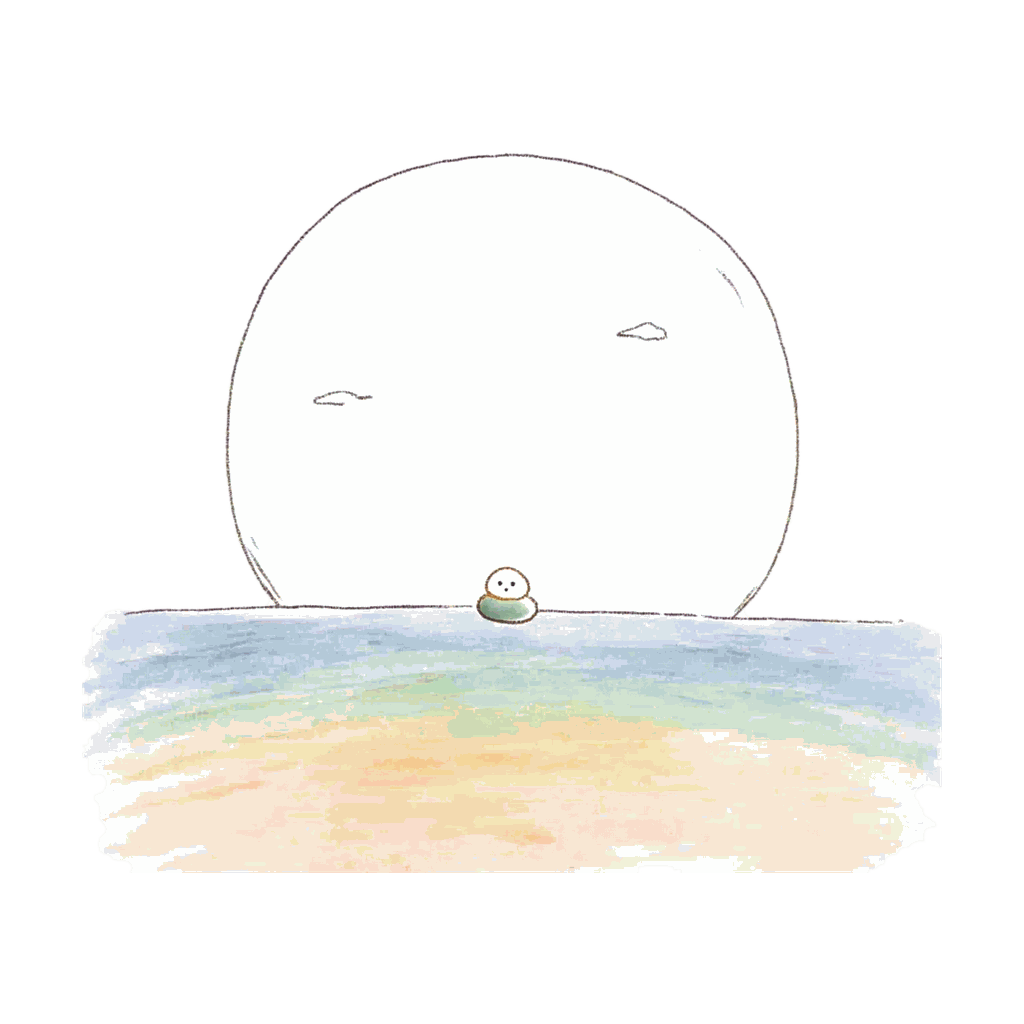
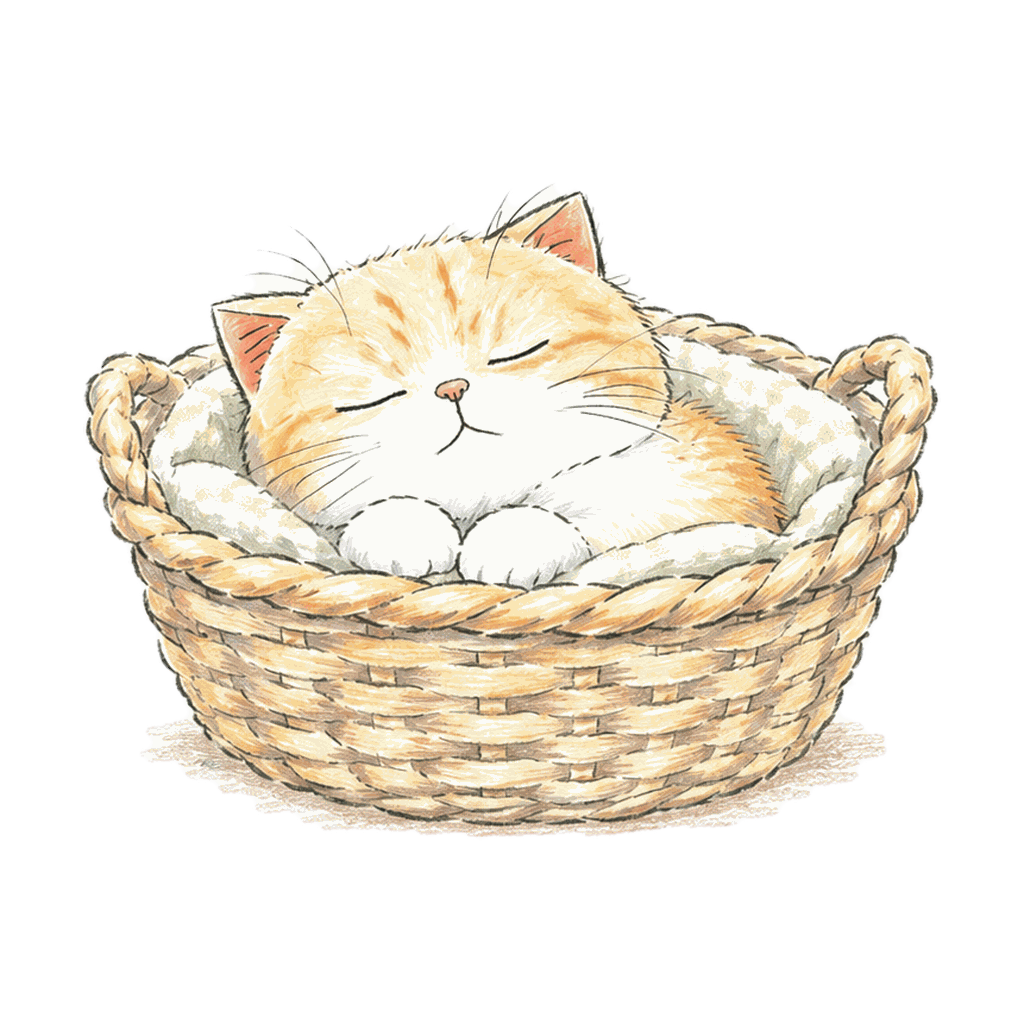
Stop calling Sora small when the art says otherwise (#47)
* Stop calling Sora small when the art says otherwise

The illustration for 大 is Sora — the big fluffy cat that is also the app
icon — while 小 uses the little green creature. #3's text had Mia saying
Sora is small and grandma calling him まだ子猫. Third conversation of the
free chapter, so almost every user meets the contradiction.

The art cannot be redrawn, so the words moved: Mia says he is big, and
grandma answers 小さいときは、かばんに入ったんだよ。 The character being
taught now sits at the head of her bubble, 大 comes back one sentence
after it was learned, and the pair stands inside a single exchange.

今はね。 was the first idea and 今 collides with 今日 in the very next
sentence. そうだねえ。 was the second and #4's grandma already opens that
way, romaji and line break included. ころは was the third and #33 uses it
for the same nostalgic shape.

Chapter one's unlearned-kanji count drops from 34 to 32: 子猫 leaves, 入
arrives with furigana.

* Put Sora in a basket, not a bag

かばん is #2's word — Mia's luggage, one sentence earlier. Reading them
back to back invites "so the cat was in that luggage?", which is not the
picture. かご keeps the two apart and suits a cat better.

* Give 小 the kitten in a basket

The illustration was the little green creature in front of a horizon,
which pointed at nothing the sentence said. It is now Sora asleep in a
basket, which is the line word for word: 子猫のときは、小さいかごに
入ったんだよ。

So 大 and 小 are the same cat at two ages, and the pair the chapter builds
[…]

diff --git a/src/content/index.ts b/src/content/index.ts
@@ -2193,30 +2193,29 @@ export const sentences: Sentence[] = [
     lines: [
       {
         speaker: 'mia',
-        japanese: '空は、小さいですね。',
+        japanese: '空は、大きいですね。',
         segments: [
           { text: '空', reading: 'そら' },
           { text: 'は、' },
-          { text: '小', reading: 'ちい' },
-          { text: 'さいですね。' },
+          { text: '大', reading: 'おお' },
+          { text: 'きいですね。' },
         ],
-        romaji: 'Sora wa, chiisai desu ne.',
-        english: 'Sora is small.',
+        romaji: 'Sora wa, ōkii desu ne.',
+        english: 'Sora is big.',
       },
       {
         speaker: 'grandma',
-        japanese: 'まだ子猫だからねえ。小さいけど、よく食べるよ。',
+        japanese: '子猫のときは、小さいかごに入ったんだよ。',
         segments: [
-          { text: 'まだ' },
           { text: '子猫', reading: 'こねこ' },
-          { text: 'だからねえ。', breakAfter: true },
+          { text: 'のときは、', breakAfter: true },
           { text: '小', reading: 'ちい' },
-          { text: 'さいけど、よく', breakAfter: true },
-          { text: '食', reading: 'た' },
-          { text: 'べるよ。' },
+          { text: 'さいかごに', breakAfter: true },
+          { text: '入', reading: 'はい' },
+          { text: 'ったんだよ。' },
         ],
-        romaji: 'Mada koneko dakara nē. Chiisai kedo, yoku taberu yo.',
-        english: "He's still a kitten. Small, but he eats a lot.",
+        romaji: 'Koneko no toki wa, chiisai kago ni haitta n da yo.',
+        english: 'When he was a kitten, he fit in a small basket.',
       },
     ],
     newKanjiId: K.small,

diff --git a/docs/log/2026-09.md b/docs/log/2026-09.md
@@ -899,3 +899,59 @@
 
 - **CLAUDE.md に `LANG=en_US.UTF-8` の1行を足していない**(前々エントリから継続)
 - **.ipa がまた古い。** build #2 は #43 / #44 の前
+
+
+## 2026-09-12 TestFlight まで出し、第1章の絵と文の食い違いを直した
+
+- 主導: 🤝 協働
+- 関連: PR #45 / #46 / #47 / EAS build#3 / `639b29e`..`8d6c6d1`
+
+**人がやったこと**
+
+- **App Store Connect の作業一式。** Paid Apps Agreement の同意、銀行口座の登録、
+  税務フォーム(W-8BEN で日米租税条約 第12条・0% を申告、Foreign TIN はマイナンバー)
+- **EU 27カ国の除外**(`Europe` 42 → 15)。アプリ本体のプライバシーポリシー URL の設定
+- `eas submit` での TestFlight アップロード、外部テストグループ作成と Beta App Review 提出
+- **第1章の絵と文の食い違いを発見。** `大` のイラストがソラ(大きくてふさふさの猫)なのに、
+  #3 が「空は、小さいですね」「まだ子猫だからねえ」と言っていた
+- **`小` のイラストを作り直した。** `assets/kanji/cheap.png`(安)をもとに
+  「写真の猫が子猫だったときのもので、カゴの中にすっぽり入っているimageがほしい」と
+  ChatGPT Images に依頼して生成(手順は `docs/画風プロンプト定義.md` に追記)
+- #3 の文面を「子猫のときは、小さいかごに入ったんだよ。」に決定
+
+**AIに任せたこと**
+
+- .ipa の焼き直し(build#3 / `f83d5bf`)とチェックリストの更新
+- ASC の各項目の手順提示と、画面の読み取り
+- #3 の書き換え案の提示・実装と、`content-auditor` / `reviewer` の指摘の反映
+- 差し替え画像の切り抜き検査(最下行の幅を他の49枚と突き合わせ)
+
+**判断したこと(git から読めないもの)**
+
+- **DSA の trader 申告はしない。** EU を外してもバナーは消えなかったが、
+  **trader と申告すると住所・電話番号が EU の掲載ページに公開される**(ADR-0009 が避けた当のもの)。
+  非 trader と申告するのはサブスクを売る以上は事実と異なる。**提出時に実際に止められたら考える**
+- **外部テストは公開リンクで SNS 募集する。** 内部テスターは ASC のユーザーとして
+  開発者アカウントに入れる必要があり、家族や友人に渡すものではない。
+  N5 学習者が身近にいないため、ターゲット層は SNS で集める
+- **第1章の絵と文の食い違いは、出す前に直す。** 無料範囲の3本目で、ほぼ全員が見る
+
+**やり直した / 詰まったこと**
+
+- **「Paid Apps Agreement できてそう」を否定した。** Status が `New` = 未同意で、
+  Effective Date も空だった。**これが本番で課金が動かない原因になるところだった**
+  (シミュレータで offerings が引けなかった件の本命でもあった)
+- **#3 の書き換えで3つの言い回しを落とした。** 「今はね。」は `今` が #4 の `今日` と、
+  「そうだねえ。」は #4 のおばあちゃんの1行目と(ローマ字も改行位置も完全一致)、
+  「小さいころは」は #33 の「子どものころは」と衝突した。**どれも1本ずつ隣を見ないと気づけない**
+- **私が出した3案より、開発者の「子猫のときは」案のほうが良かった。**
+  過去形にすれば `子猫` を使っても矛盾しないという道を、私は見落としていた
+- **「かばん」を「かご」に変えた。** #2 がミアのかばんの回で、連番だと
+  「その荷物に猫が入っていたのか」と読まれる
+- **行ごとの入れ子を実機で覆した件**(前エントリ)と同じく、**今回も監査・レビューが
+  自分の見落としを拾った。** 絵と文の食い違いに至っては開発者が見つけている
+
+**未回収の借り**
+
+- **CLAUDE.md に `LANG=en_US.UTF-8` の1行を足していない**(継続)
+- **.ipa がまた古い。** build#3 は #47 の前。**Beta App Review 中のビルドも同じく古い**

diff --git a/docs/会話文集.md b/docs/会話文集.md
@@ -76,12 +76,28 @@
 
 **場面**: 居間。空を見ながら。
 
-> **ミア**: 空は、**小**さいですね。
-> **おばあちゃん**: まだ子猫だからねえ。**小**さいけど、よく食べるよ。
+> **ミア**: 空は、**大**きいですね。
+> **おばあちゃん**: 子猫のときは、**小**さいかごに入ったんだよ。
 
 - 新出: **小**(ちい-さい)
-- 英訳: "Sora is small." / "He's still a kitten. Small, but he eats a lot."
-- メモ: 2の「大」と対にして隣接配置。記憶のフックになる
+- 英訳: "Sora is big." / "When he was a kitten, he fit in a small basket."
+- メモ: 2の「大」と対にして隣接配置。記憶のフックになる。
+  **大 がこの回で再登場するので、対比が1本の中で立つ**
+- **改稿(2026-09-12)**: 元は「空は、小さいですね。」「まだ子猫だからねえ。」だったが、
+  **大 のイラストがソラ(大きくてふさふさの猫)**で、文だけが「小さい子猫」と言っていた。
+  アイコンも同じ絵なので、第1章の3本目で絵と文が食い違う。イラストは作り直せないため文面を変えた。
+  「今はね。」案は避けた。**今(いま)** 自体は #37 で使っているが、
+  **#3 と #4 は連番なので**、直後に **今日(きょう)** が来て別読みが隣り合う
+  (#11 で **方** が #17 の **読み方** とぶつかったのと同じ形)。
+  相槌の「そうだねえ。」も落とした。**#4 のおばあちゃんが同じ「そうだねえ。」で始まる**ため
+  (監査の指摘)。落としたことで **小** が吹き出しの1文字目に来て、新出字が立つようになった。
+  「小さいころは」ではなく「子猫のときは」にしたのは、#33 が「子どものころは」で
+  同じ型を使っているため。**子猫 は過去形なので、いまのソラが大きいことと矛盾しない。**
+  **「かばん」ではなく「かご」**にしたのは、#2 がミアのかばんの回で、
+  連番で同じ語が出ると「その荷物に猫が入っていたのか」と読まれる余地があるため(監査の指摘)。
+- **イラストも同時に差し替えた(2026-09-12)**: `小` は別キャラ(緑の生き物)が水平線の前に立つ絵だったが、
+  **かごで眠る子猫**に変更。これで **大 = 大きくなったソラ / 小 = 子猫のソラ** の対になり、
+  本文とも一致する(監査が「小 の絵と本文が別のものを指している」と指摘していた点も解消)
 
 ## 4. 日 — ひ
 
@@ -106,7 +122,7 @@
 
 - 新出: **食**(た-べる)
 - 英訳: "Food." / "Huh? You just ate, didn't you?" / "Food." / "...Fine. Grandma, Sora says he wants to eat again."
-- メモ: 空の初セリフ。**ミアが空にタメ口で話す型をここで確立する**。ミアが空の「通訳」としておばあちゃんに伝える構造にすることで、タメ口→丁寧語の切り替えが1回の会話で見える。3の「よく食べる」を受けている
+- メモ: 空の初セリフ。**ミアが空にタメ口で話す型をここで確立する**。ミアが空の「通訳」としておばあちゃんに伝える構造にすることで、タメ口→丁寧語の切り替えが1回の会話で見える。**空が食いしん坊であることはこの回で初めて出る**(#3 の「よく食べる」は 2026-09-12 の改稿で消えた)
 
 ## 6. 上 — うえ
 

diff --git a/docs/画風プロンプト定義.md b/docs/画風プロンプト定義.md
@@ -177,6 +177,35 @@ uv run --project scripts/illustration-cutout \
 `scripts/illustration-cutout/README.md`。テーマ3種のどの背景でも白い矩形が出ないように
 するため透過は必須。
 
+### 1枚だけ差し替える / 足すとき(2026-09-12 に確立)
+
+50枚を作り終えたあとで1枚を作り直す場合、Midjourney のバッチを回さず
+**既存アセットを参照画像として渡し、ChatGPT Images に頼む**ほうが早い。
+画風が既存49枚から離れにくいのが利点。
+
+**実例: `small`(小)の差し替え。**
+
+> `assets/kanji/cheap.png`(安。同じ猫が寝ている絵)をもとに、
+> 「写真の猫が子猫だったときのもので、カゴの中にすっぽり入っているimageがほしい」
+> と ChatGPT Images に依頼して生成
+
+線の太さ・彩度・余白の取り方が既存と揃った状態で出てきたため、修正なしで採用できた。
+
+**受け入れる前に必ず測ること。** 生成物は切り抜き済みに見えても、
+**縁の落とし方が他の49枚と違うことがある**。
+
+```python
+# 最下行の不透明な範囲。すぼまっていれば OK、全幅のまま直線で切れていたら要調整
+a = Image.open(path).convert('RGBA').getchannel('A')
+```
+
+- **`small`(採用)**: 最下行 466〜610 とすぼまる。他の49枚と同じ形
+- **`outside`(要調整だった)**: 最下行が 90〜935 の直線。桜の背景の上で
+  **緑の長方形シールに見えた**ので、草地の下端と左右のアルファを落として馴染ませた
+
+比較対象は `river` 269〜502 / `sky` 411〜507 / `mountain` 466〜472 / `soil` 322〜836。
+いずれも下にいくほど細くなって消える。
+
 ### 切り抜きが通る絵の条件
 
 背景の抜き方が「外周から白を辿って届く範囲」なので、**輪郭線で閉じてさえいれば、
